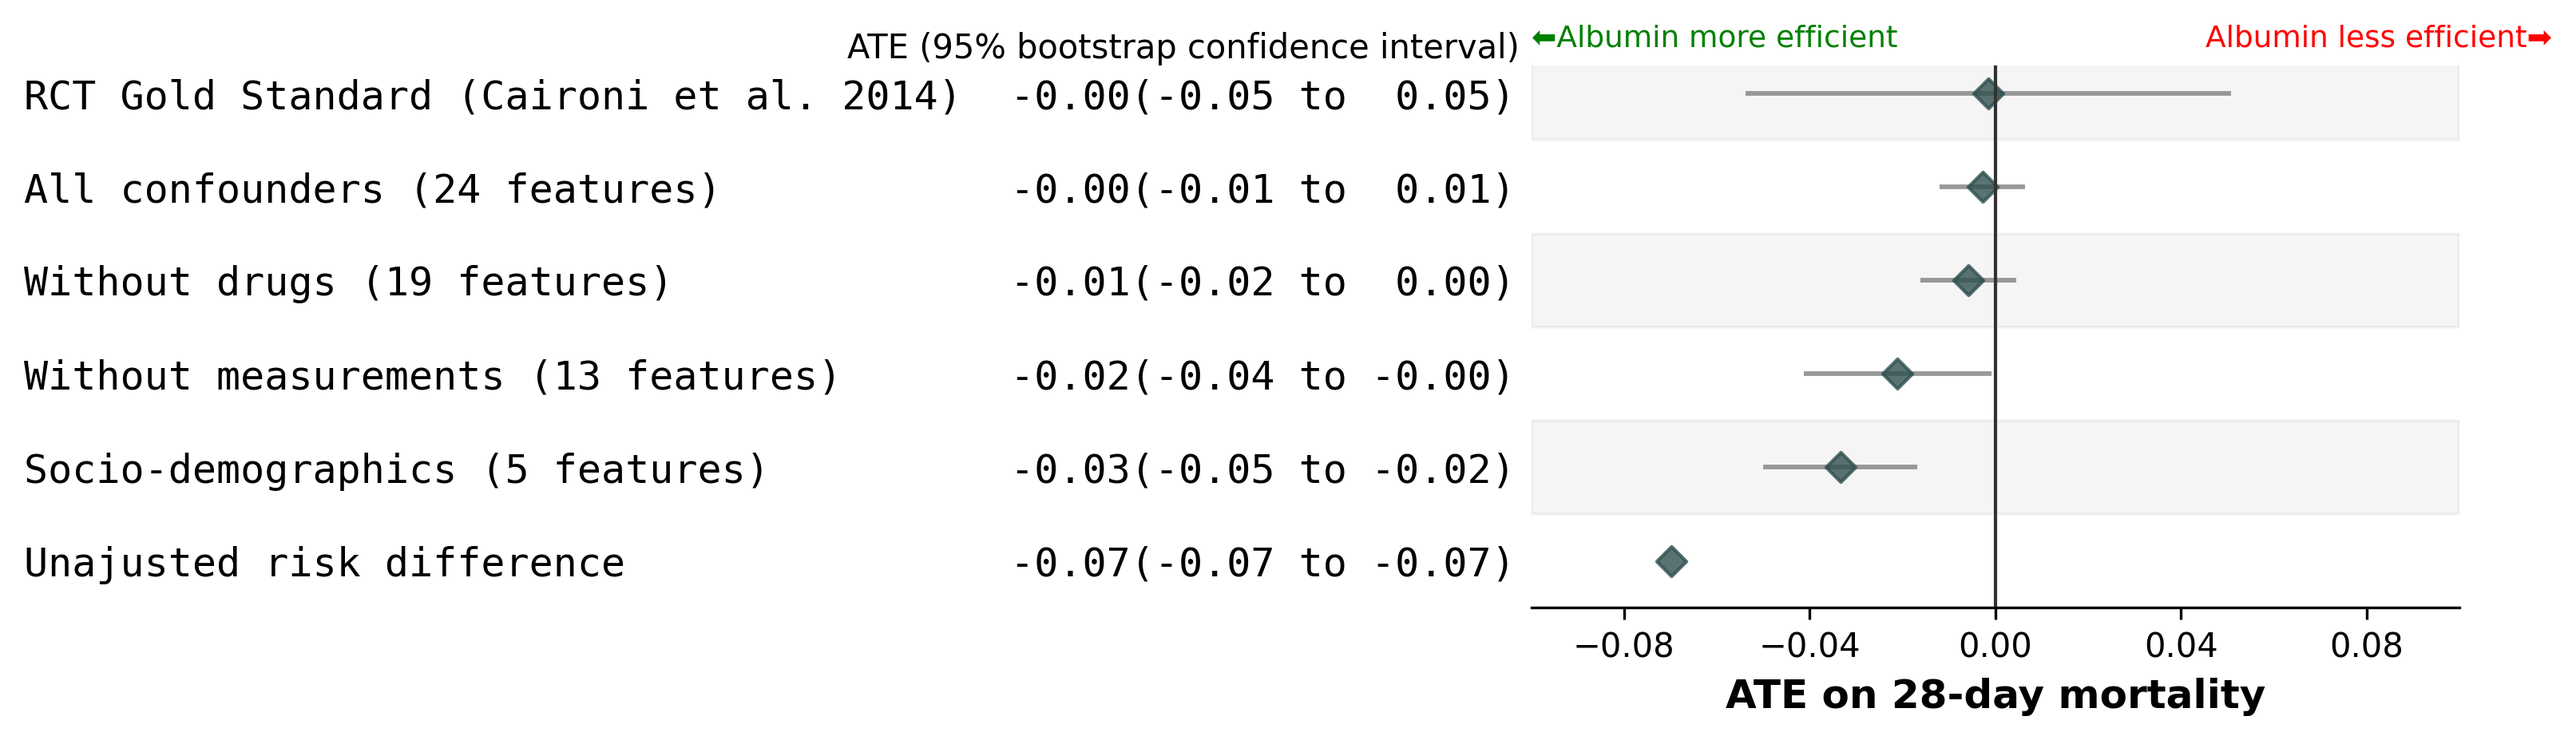
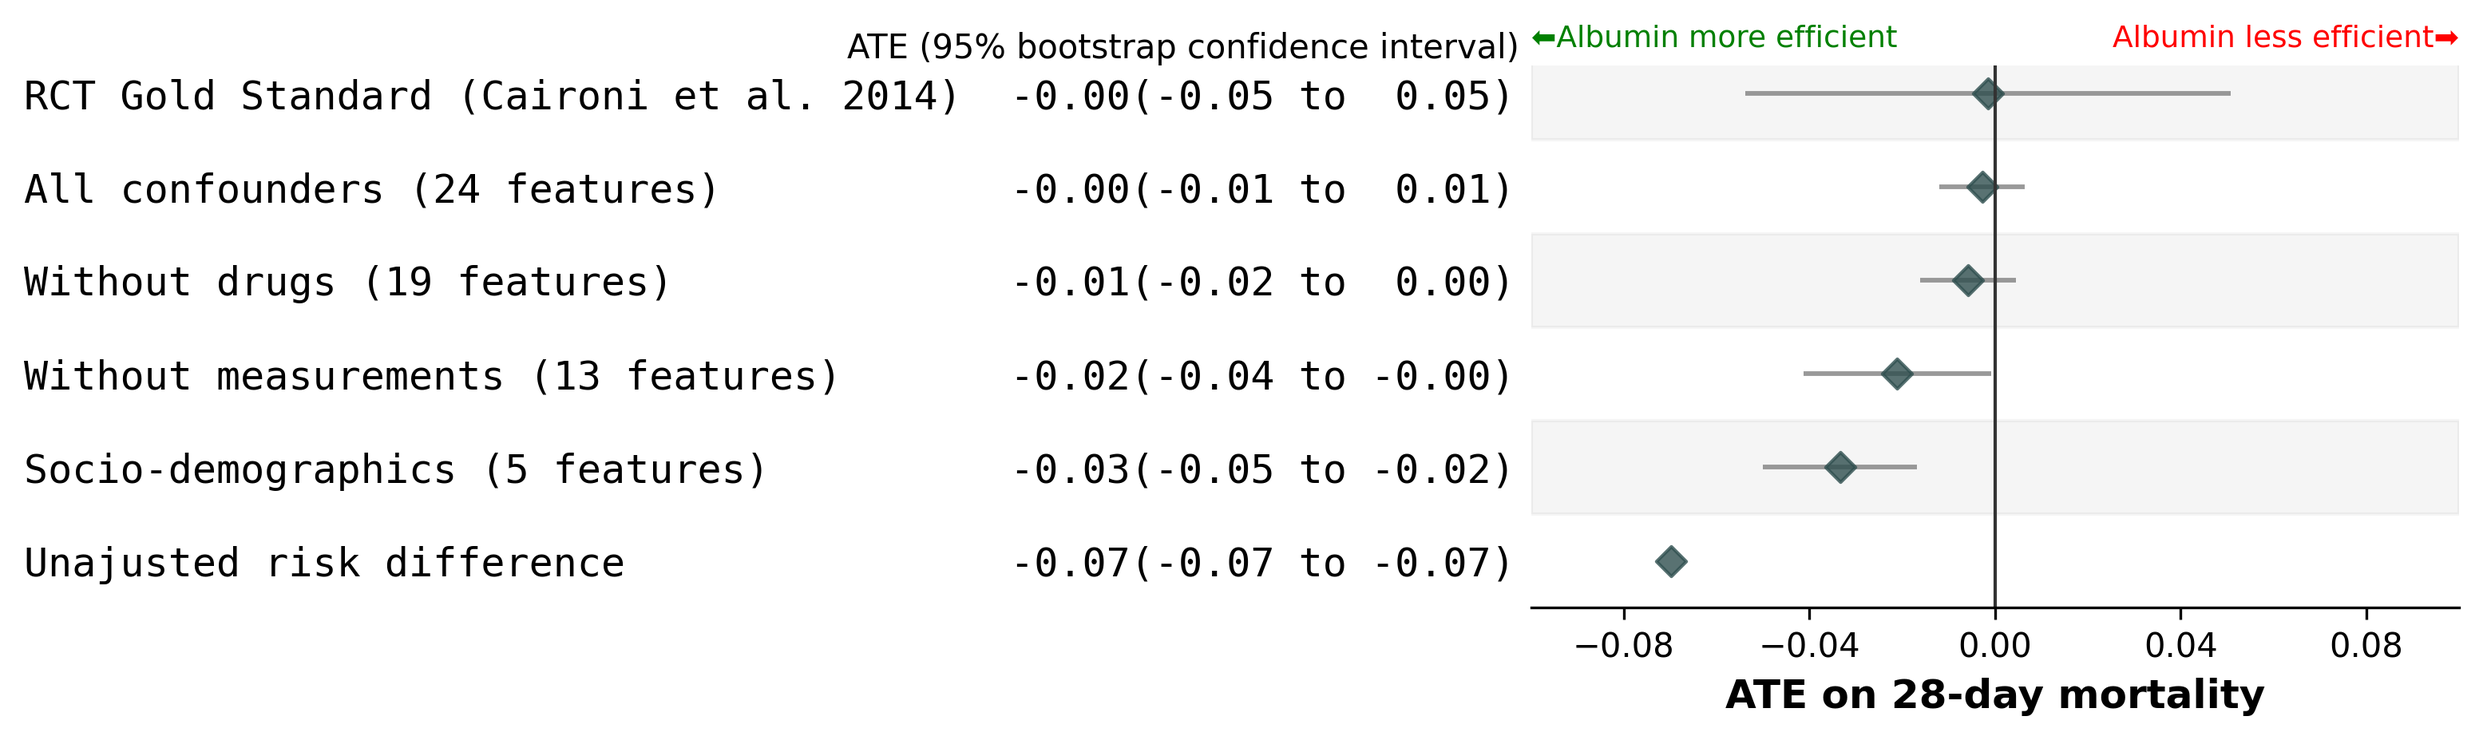
iter on xalign figures

diff --git a/reports/2_immortal_bias_albumin_for_sepsis_report.py b/reports/2_immortal_bias_albumin_for_sepsis_report.py
@@ -24,7 +24,7 @@ COHORT_NAME2LABEL = {
     "albumin_for_sepsis__obs_3d": "72h",
 }
 IS_MAIN_FIGURE = True
-SHARE_X_AXIS = False
+SHARE_X_AXIS = True
 # %%
 # expe_name = "immortal_time_bias_double_robust_forest_agg_last__bs_50"
 expe_name = "immortal_time_bias_double_robust_forest_agg_first_last__bs_30"
@@ -99,6 +99,7 @@ else:
     ]
 if SHARE_X_AXIS:
     figsize = (5, 1.5)
+
 axes = fp.forestplot(
     results,  # the dataframe with results data
     estimate=RESULT_ATE,  # col containing estimated effect size
@@ -124,6 +125,7 @@ else:
 if SHARE_X_AXIS:
     axes.set(xlim=SHARED_X_LIM)
     y_albumin = 1.05
+    x_less = 1
 else:
     y_albumin = 0.95
 axes = add_albumin_label(axes, x_less=x_less, fontsize=fontsize, y=y_albumin)

diff --git a/reports/6_confounder_sensitivity_albumin_for_sepsis_report.py b/reports/6_confounder_sensitivity_albumin_for_sepsis_report.py
@@ -11,7 +11,7 @@ from caumim.variables.selection import FEATURE_SETS, LABEL_ALL_FEATURES
 
 # %%
 MAIN_FIGURE = True
-SHARE_X_AXIS = False
+SHARE_X_AXIS = True
 
 cohort_name = "sensitivity_confounders_albumin_for_sepsis__bs_50"
 ### For IP matching, interesting results with RF which seems to overfit the data and results are dependents on the aggregation strategy.
@@ -155,6 +155,7 @@ else:
     y_albumin = 0.95
 if SHARE_X_AXIS:
     figsize = (5, 3)
+    x_less = 1
 axes = fp.forestplot(
     results,  # the dataframe with resultcodes data
     estimate=RESULT_ATE,  # col containing estimated effect size

diff --git a/reports/1_sensitivity_albumin_for_sepsis_report.py b/reports/1_sensitivity_albumin_for_sepsis_report.py
@@ -12,7 +12,7 @@ from caumim.reports_utils import add_rct_gold_standard_line, add_albumin_label
 from copy import deepcopy
 
 IS_MAIN_FIGURE = True
-SHARE_X_AXIS = False
+SHARE_X_AXIS = True
 # %%
 
 cohort_dir = create_cohort_folder(deepcopy(COHORT_CONFIG_ALBUMIN_FOR_SEPSIS))
@@ -136,6 +136,7 @@ else:
     fontsize = 10
 if SHARE_X_AXIS:
     axes.set(xlim=SHARED_X_LIM)
+    x_less = 1.0
 axes.text(0.1, outlier_x, "Outlier ▶", ha="right", va="center")
 axes = add_albumin_label(axes, x_less=x_less, fontsize=fontsize)
 
